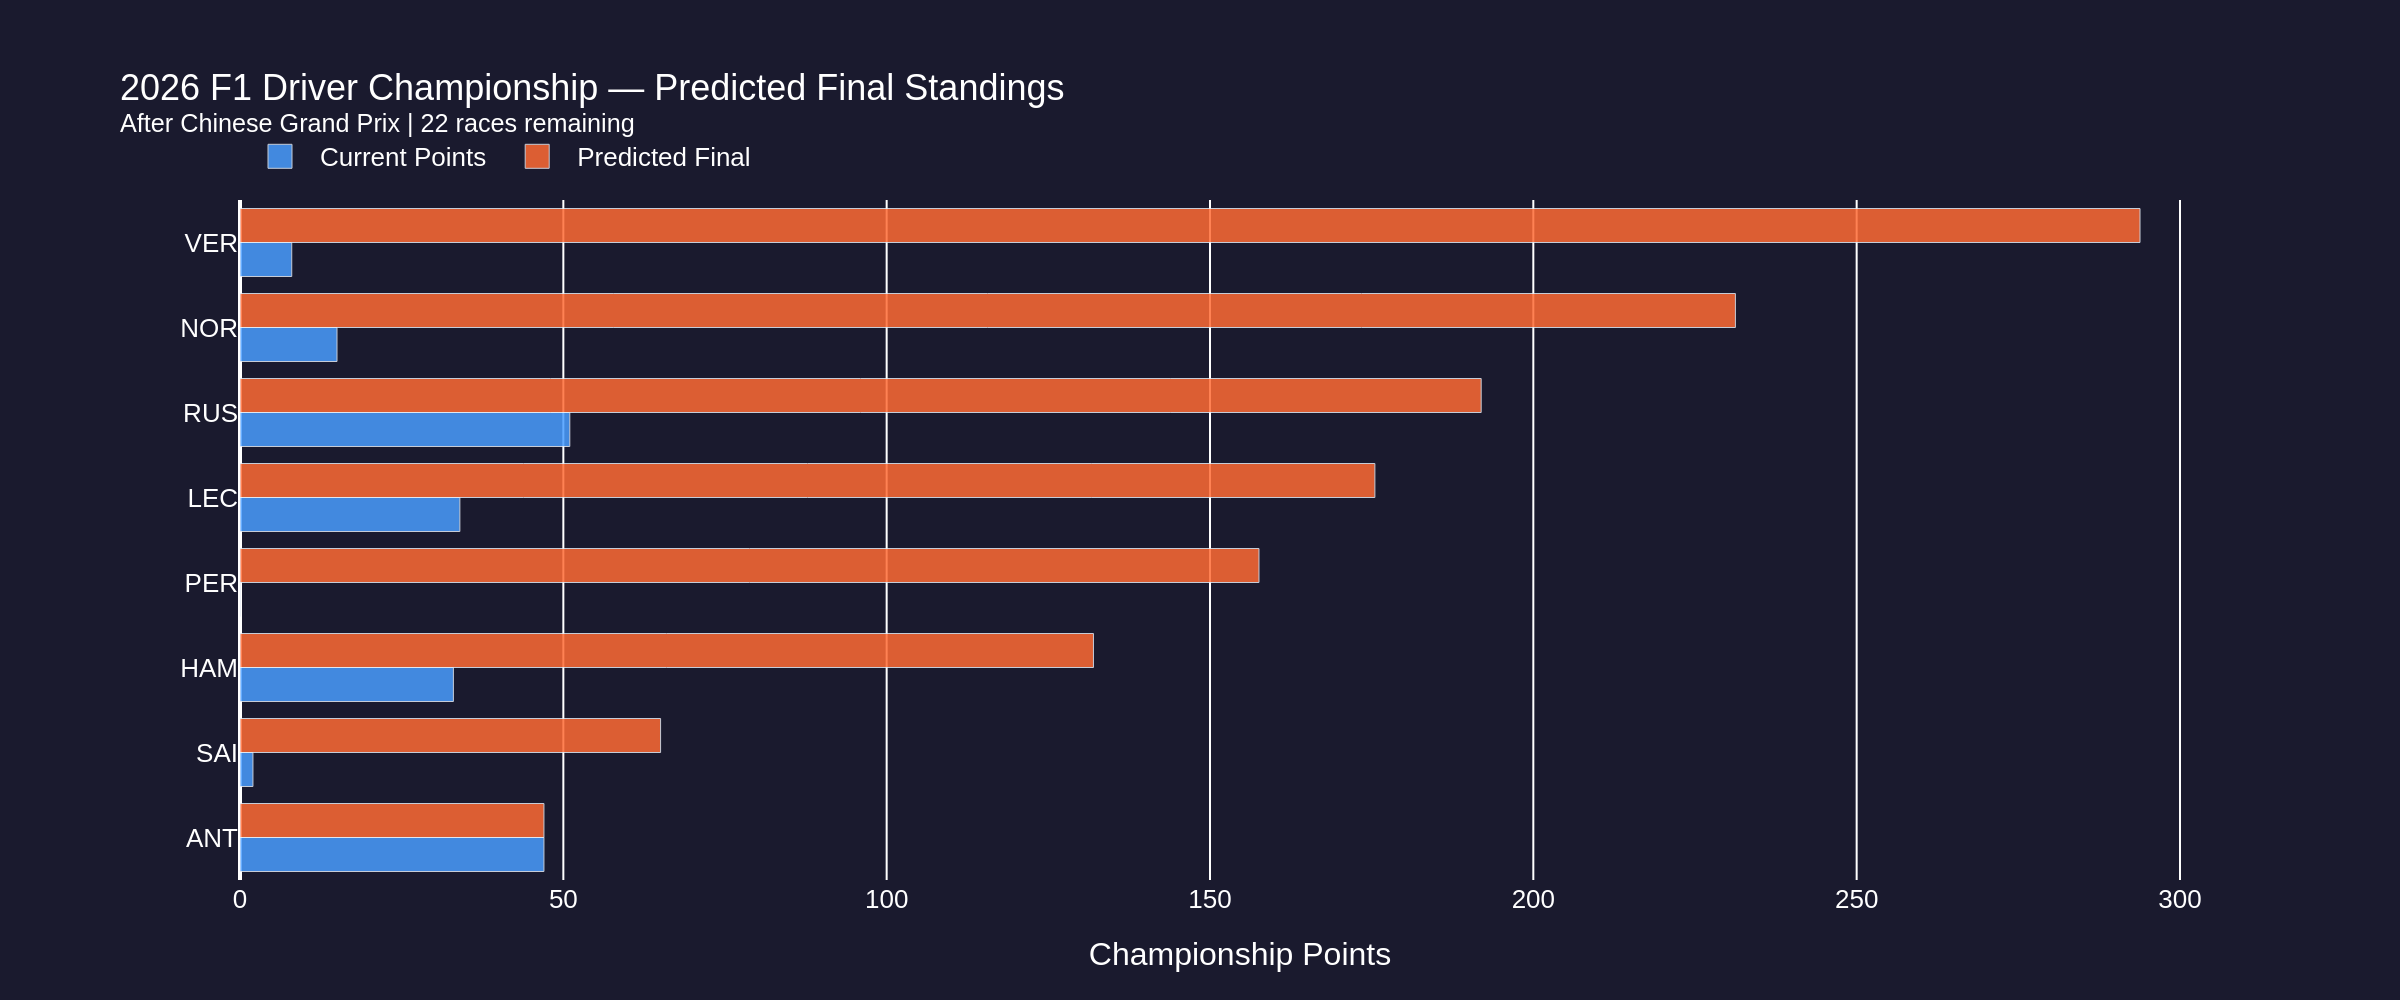
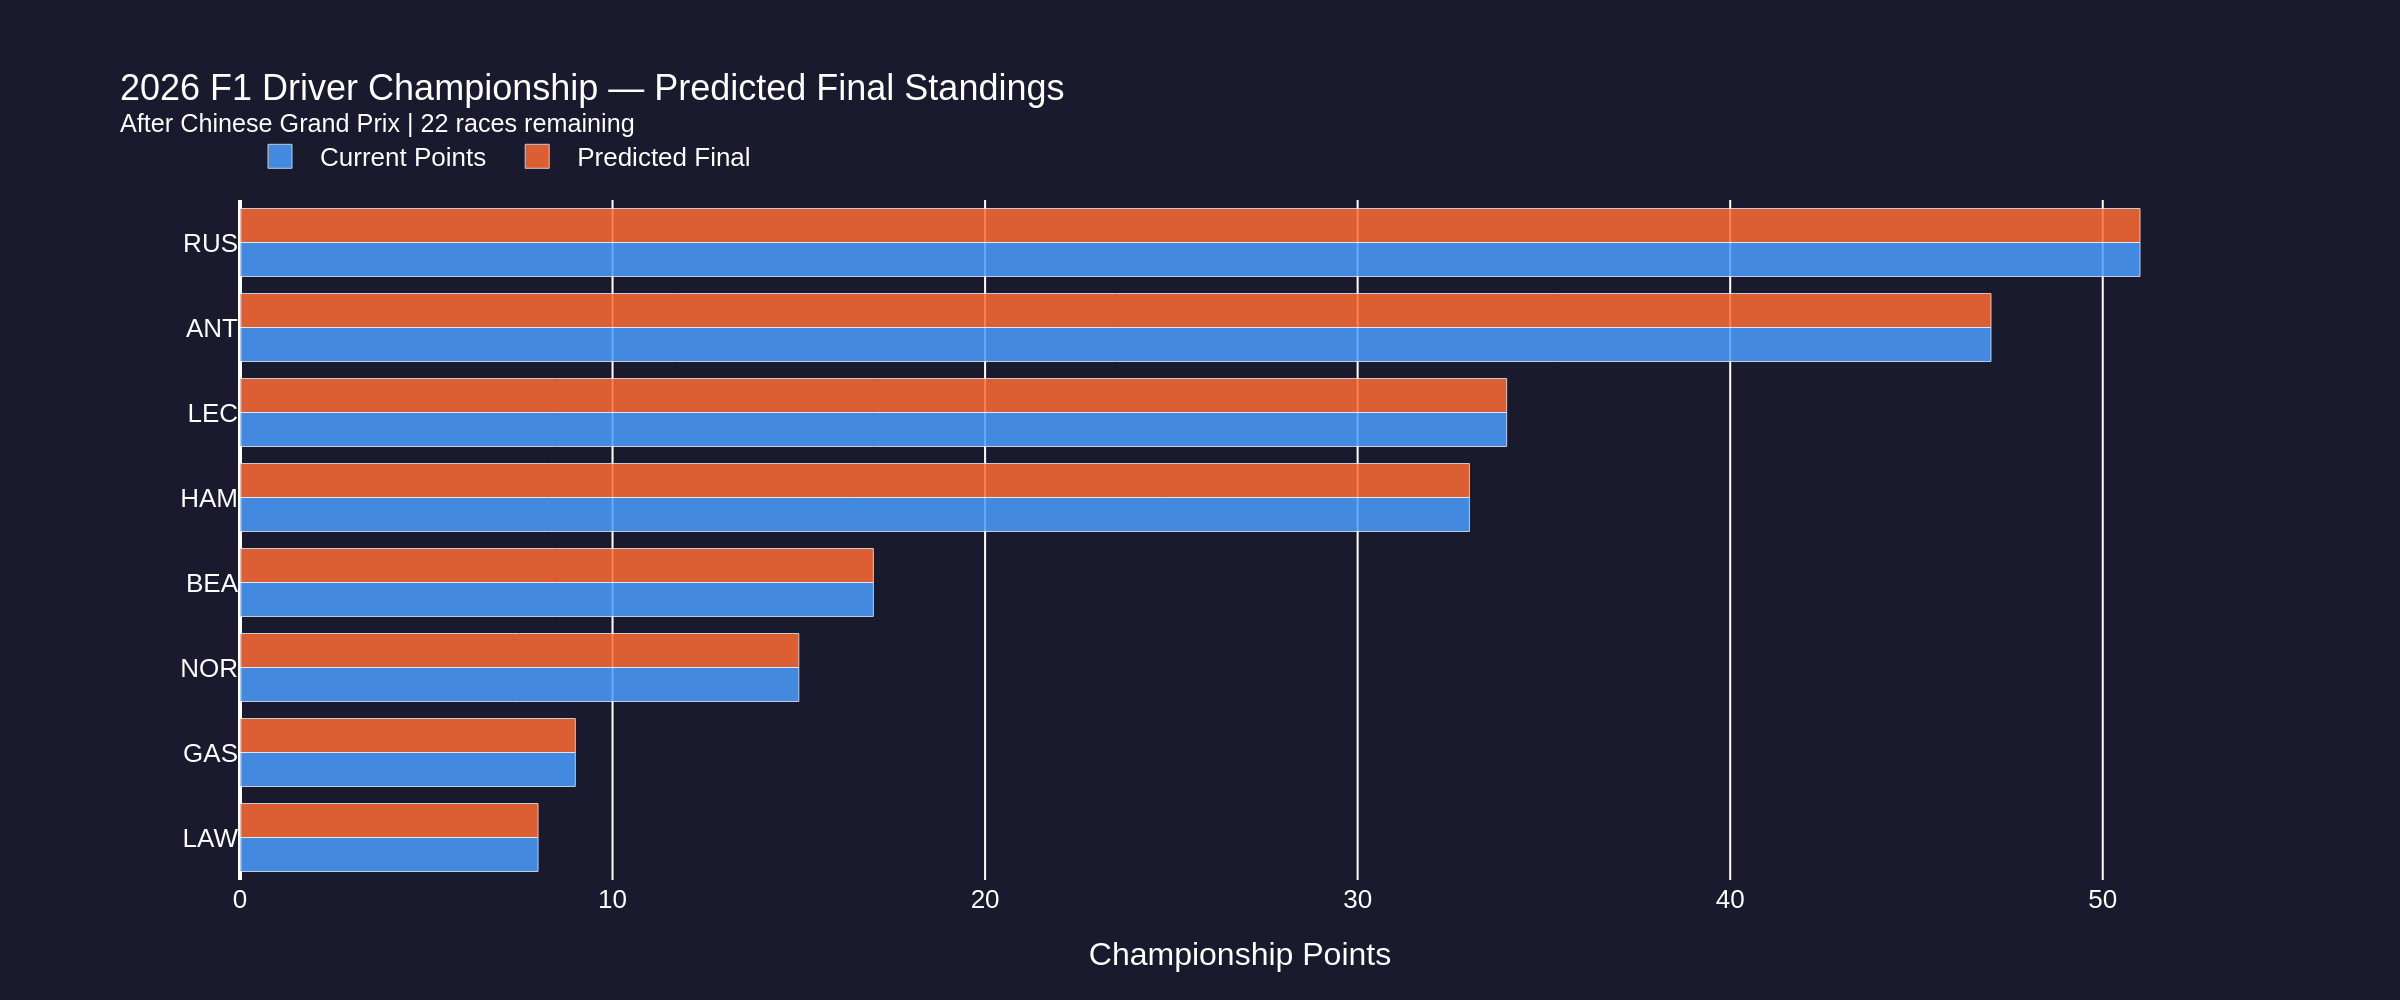
chore: F1 predictions update — 2026-03-16 10:08 UTC

diff --git a/docs/index.html b/docs/index.html
@@ -60,7 +60,7 @@ a { color: #4a9eff; }
   using historical FastF1 + OpenF1 data.
 </p>
 <p style="color:#666; font-size:0.85rem;">
-  6 race(s) · 31 prediction update(s) · Last updated 2026-03-15 09:38 UTC
+  6 race(s) · 31 prediction update(s) · Last updated 2026-03-16 10:08 UTC
 </p>
 <h2>🏆 2026 Season</h2>
 <div style="background:#1a1a2e; border:1px solid #2a2a4e; border-radius:8px;
@@ -130,7 +130,7 @@ a { color: #4a9eff; }
 <footer>
   Generated by <a href="https://timecopilot.dev/">TimeCopilot</a> ·
   Data sources: FastF1, OpenF1, Jolpica-F1 ·
-  Updated 2026-03-15 09:38 UTC
+  Updated 2026-03-16 10:08 UTC
 </footer>
 </body>
 </html>

diff --git a/docs/races/abu_dhabi_2025/index.html b/docs/races/abu_dhabi_2025/index.html
@@ -120,7 +120,7 @@ function showTab(id, el) {
 <footer>
   Generated by <a href="https://timecopilot.dev/">TimeCopilot</a> ·
   Data sources: FastF1, OpenF1, Jolpica-F1 ·
-  Updated 2026-03-15 09:38 UTC
+  Updated 2026-03-16 10:08 UTC
 </footer>
 </body>
 </html>

diff --git a/docs/races/australia_2026/index.html b/docs/races/australia_2026/index.html
@@ -215,7 +215,7 @@ function showTab(id, el) {
 <footer>
   Generated by <a href="https://timecopilot.dev/">TimeCopilot</a> ·
   Data sources: FastF1, OpenF1, Jolpica-F1 ·
-  Updated 2026-03-15 09:38 UTC
+  Updated 2026-03-16 10:08 UTC
 </footer>
 </body>
 </html>

diff --git a/docs/races/azerbaijan_2025/index.html b/docs/races/azerbaijan_2025/index.html
@@ -145,7 +145,7 @@ function showTab(id, el) {
 <footer>
   Generated by <a href="https://timecopilot.dev/">TimeCopilot</a> ·
   Data sources: FastF1, OpenF1, Jolpica-F1 ·
-  Updated 2026-03-15 09:38 UTC
+  Updated 2026-03-16 10:08 UTC
 </footer>
 </body>
 </html>

diff --git a/docs/races/belgium_2025/index.html b/docs/races/belgium_2025/index.html
@@ -145,7 +145,7 @@ function showTab(id, el) {
 <footer>
   Generated by <a href="https://timecopilot.dev/">TimeCopilot</a> ·
   Data sources: FastF1, OpenF1, Jolpica-F1 ·
-  Updated 2026-03-15 09:38 UTC
+  Updated 2026-03-16 10:08 UTC
 </footer>
 </body>
 </html>

diff --git a/docs/races/china_2026/index.html b/docs/races/china_2026/index.html
@@ -188,7 +188,7 @@ function showTab(id, el) {
 <footer>
   Generated by <a href="https://timecopilot.dev/">TimeCopilot</a> ·
   Data sources: FastF1, OpenF1, Jolpica-F1 ·
-  Updated 2026-03-15 09:38 UTC
+  Updated 2026-03-16 10:08 UTC
 </footer>
 </body>
 </html>

diff --git a/docs/races/monaco_2025/index.html b/docs/races/monaco_2025/index.html
@@ -145,7 +145,7 @@ function showTab(id, el) {
 <footer>
   Generated by <a href="https://timecopilot.dev/">TimeCopilot</a> ·
   Data sources: FastF1, OpenF1, Jolpica-F1 ·
-  Updated 2026-03-15 09:38 UTC
+  Updated 2026-03-16 10:08 UTC
 </footer>
 </body>
 </html>

diff --git a/reports/china_2026/linkedin_post_post_race.md b/reports/china_2026/linkedin_post_post_race.md
@@ -1,5 +1,5 @@
 ## 🏎 Chinese Grand Prix — Post-Race Championship Update
-*Powered by [TimeCopilot](https://timecopilot.dev/) — AI time series forecasting | March 15, 2026*
+*Powered by [TimeCopilot](https://timecopilot.dev/) — AI time series forecasting | March 16, 2026*
 
 ---
 
@@ -38,25 +38,21 @@
 
 ### 🏆 Championship Prediction
 
-**Predicted 2026 Driver Champion:** VER (294 pts predicted final)
+**Predicted 2026 Driver Champion:** RUS (51 pts predicted final)
 
 **Predicted Final 2026 Driver Standings (Top 5):**
 
 | Pos | Driver | Current Pts | Predicted Final |
 |-----|--------|-------------|-----------------|
-| 1 | VER | 8 | **294** |
-| 2 | NOR | 15 | **231** |
-| 3 | RUS | 51 | **192** |
-| 4 | LEC | 34 | **175** |
-| 5 | PER | 0 | **158** |
+| 1 | RUS | 51 | **51** |
+| 2 | ANT | 47 | **47** |
+| 3 | LEC | 34 | **34** |
+| 4 | HAM | 33 | **33** |
+| 5 | BEA | 17 | **17** |
 
 **Predicted 2026 Constructor Champion:** McLaren (285 pts)
 
 *22 races remaining in the season.*
-
-### 🤖 TimeCopilot Analysis — Championship
-
-> ALB is forecasted to win the championship, with a likely margin of 30-40 points over the nearest challenger, ALO. Furthermore, drivers like AN, BEA, and STR are also considered realistic challengers, although their capacity to maintain competitive edge seems less stable.
 
 
 ---
